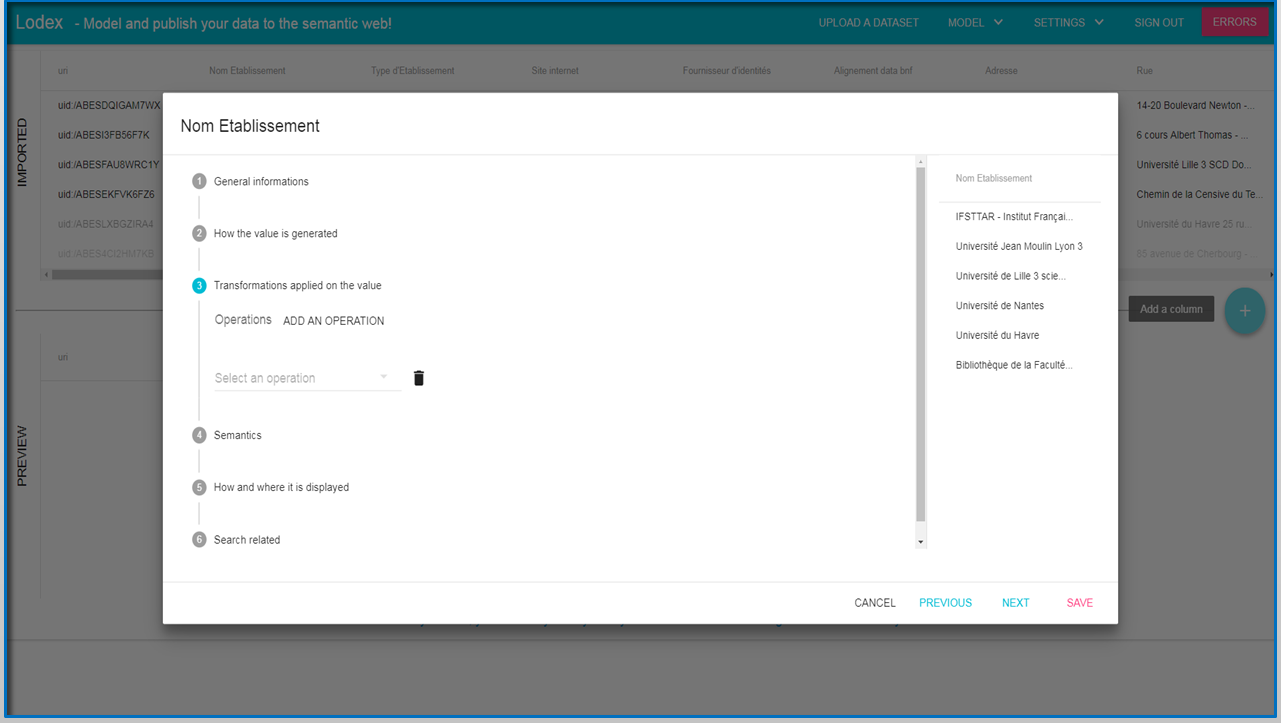
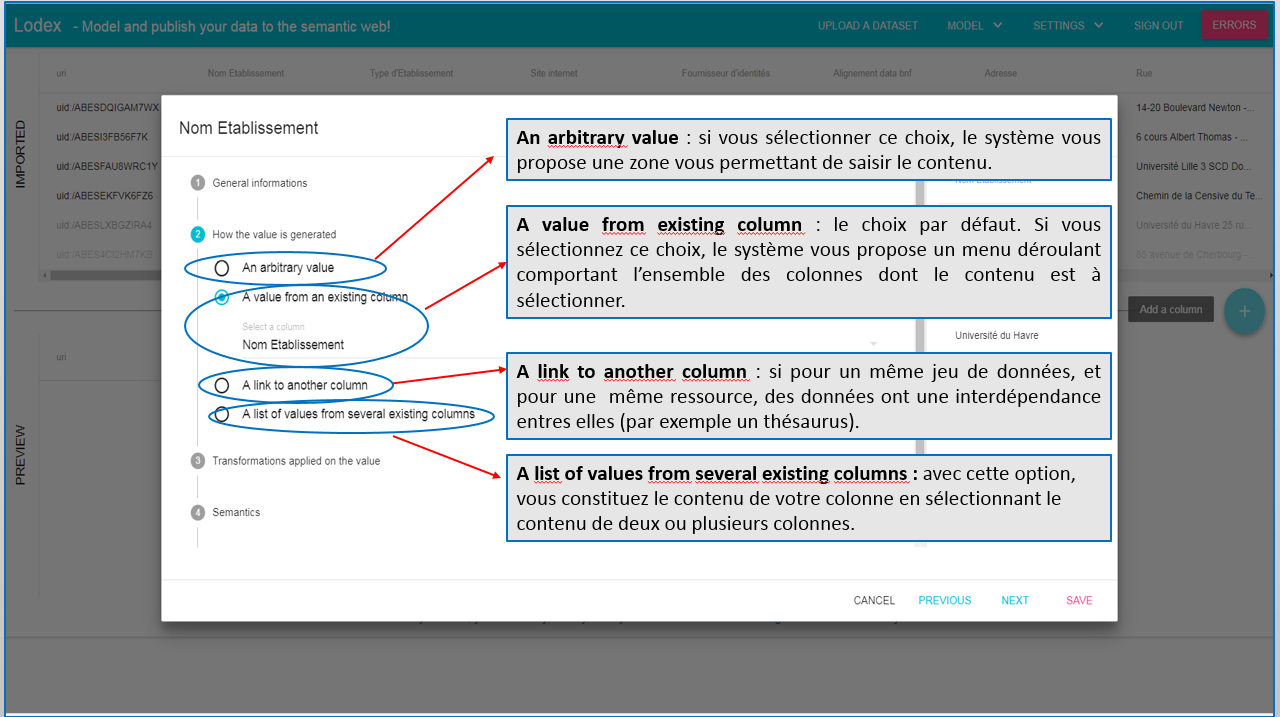
Creates assets/parametre5.png
Auto commit by GitBook Editor

diff --git a/Processus publication/Paramétage - Stylage des colonnes/README.md b/Processus publication/Paramétage - Stylage des colonnes/README.md
@@ -6,17 +6,29 @@ Pour chaque intitulé de colonne, le système vous propose cette fenêtre, corre
 
 ## Descriptif des 6 opérations :
 
+La public
+
 ### 1 - General informations
 
 Six éléments sont à renseigner : Label ; Select a coverage ; scheme ; add new class ; Langue.![](/assets/parametrage3.png)
 
-### 2 - HOW THE VALUE IS GENERATED
+### 2 - How the value is generated
 
-Cette zone permet de définir comment est générer le contenu de la colonne à publier.
+Cette zone permet de définir comment est générer le contenu de la colonne à publier.![](/assets/parametrage4.png)
 
 ### **3 – Transformations applied on the value**
 
-Cette étape, vous permet d’appliquer différentes opérations de traitement de curation sur les données.![](/assets/parametrage4.png)Lorsque vous cliquez sur le bouton "**ADD AN OPERATION**", action qui est répétable, le système vous propose de sélectionner une action.
+Cette étape, vous permet d’appliquer différentes opérations \(transformers\) de traitement de curation sur les données.![](/assets/parametre5.png)
 
-L'ensemble des 
+Lorsque vous cliquez sur le bouton "**ADD AN OPERATION**", action qui est répétable, le système vous propose de sélectionner une action.
+
+La description ainsi que le fonctionnement de chacun des transformers est développée dans [cette section](/Administration/Modèle/Transformers/README.md).
+
+### **4 - Semantics**
+
+Cette opération vous permet de déclarer en  langage RDF, une ressource anonyme ou nœud anonyme \(en anglais blank node ou bnode\). C’est une ressource, ou nœud d'un graphe RDF, qui n'est pas identifiée par une URI. Une ressource anonyme peut être sujet ou objet d'un triplet RDF. \(Voir Wikipédia : [https://fr.wikipedia.org/wiki/Ressource\_anonyme](https://fr.wikipedia.org/wiki/Ressource_anonyme)\).
+
+Deux possibilités vous sont offertes.
+
+
 
